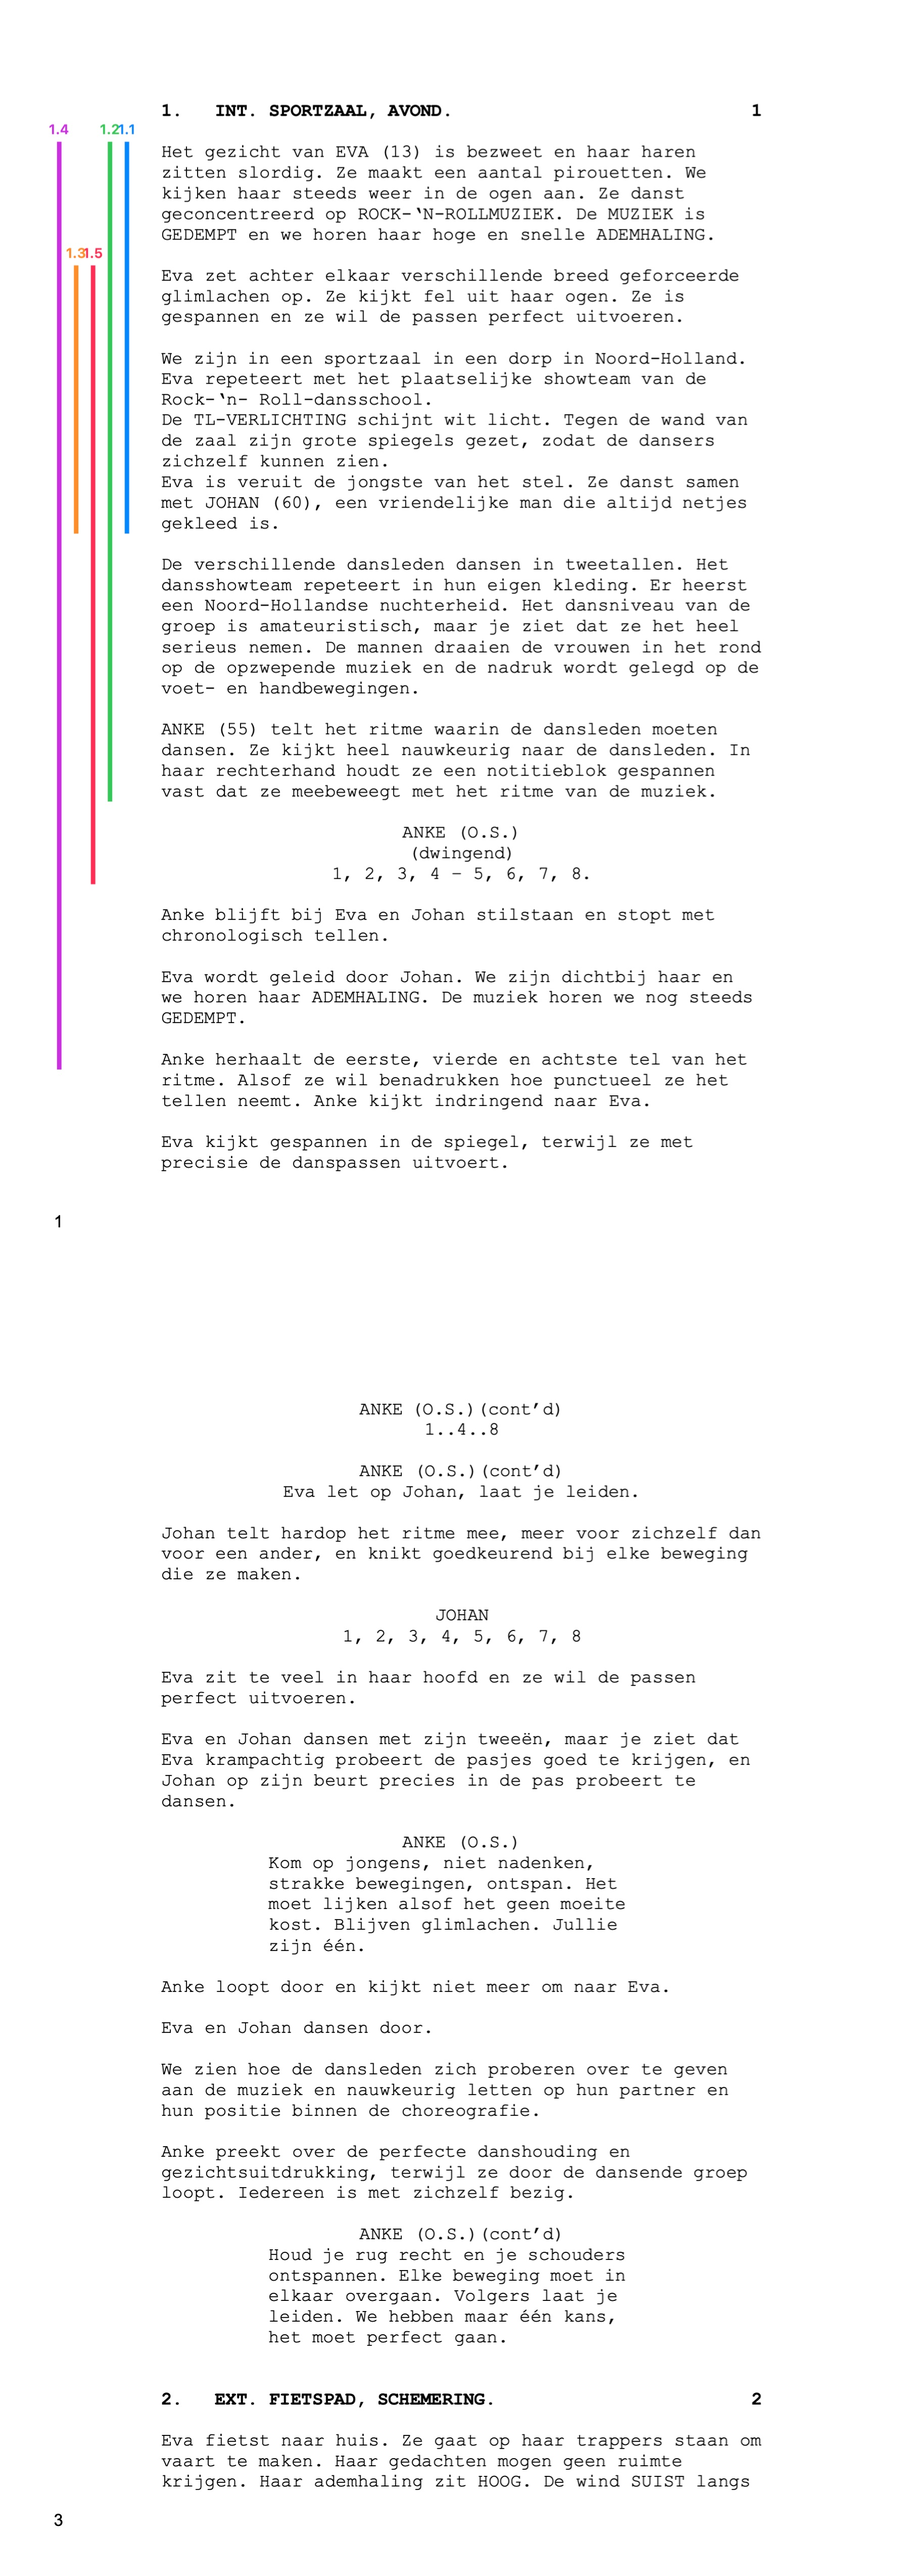
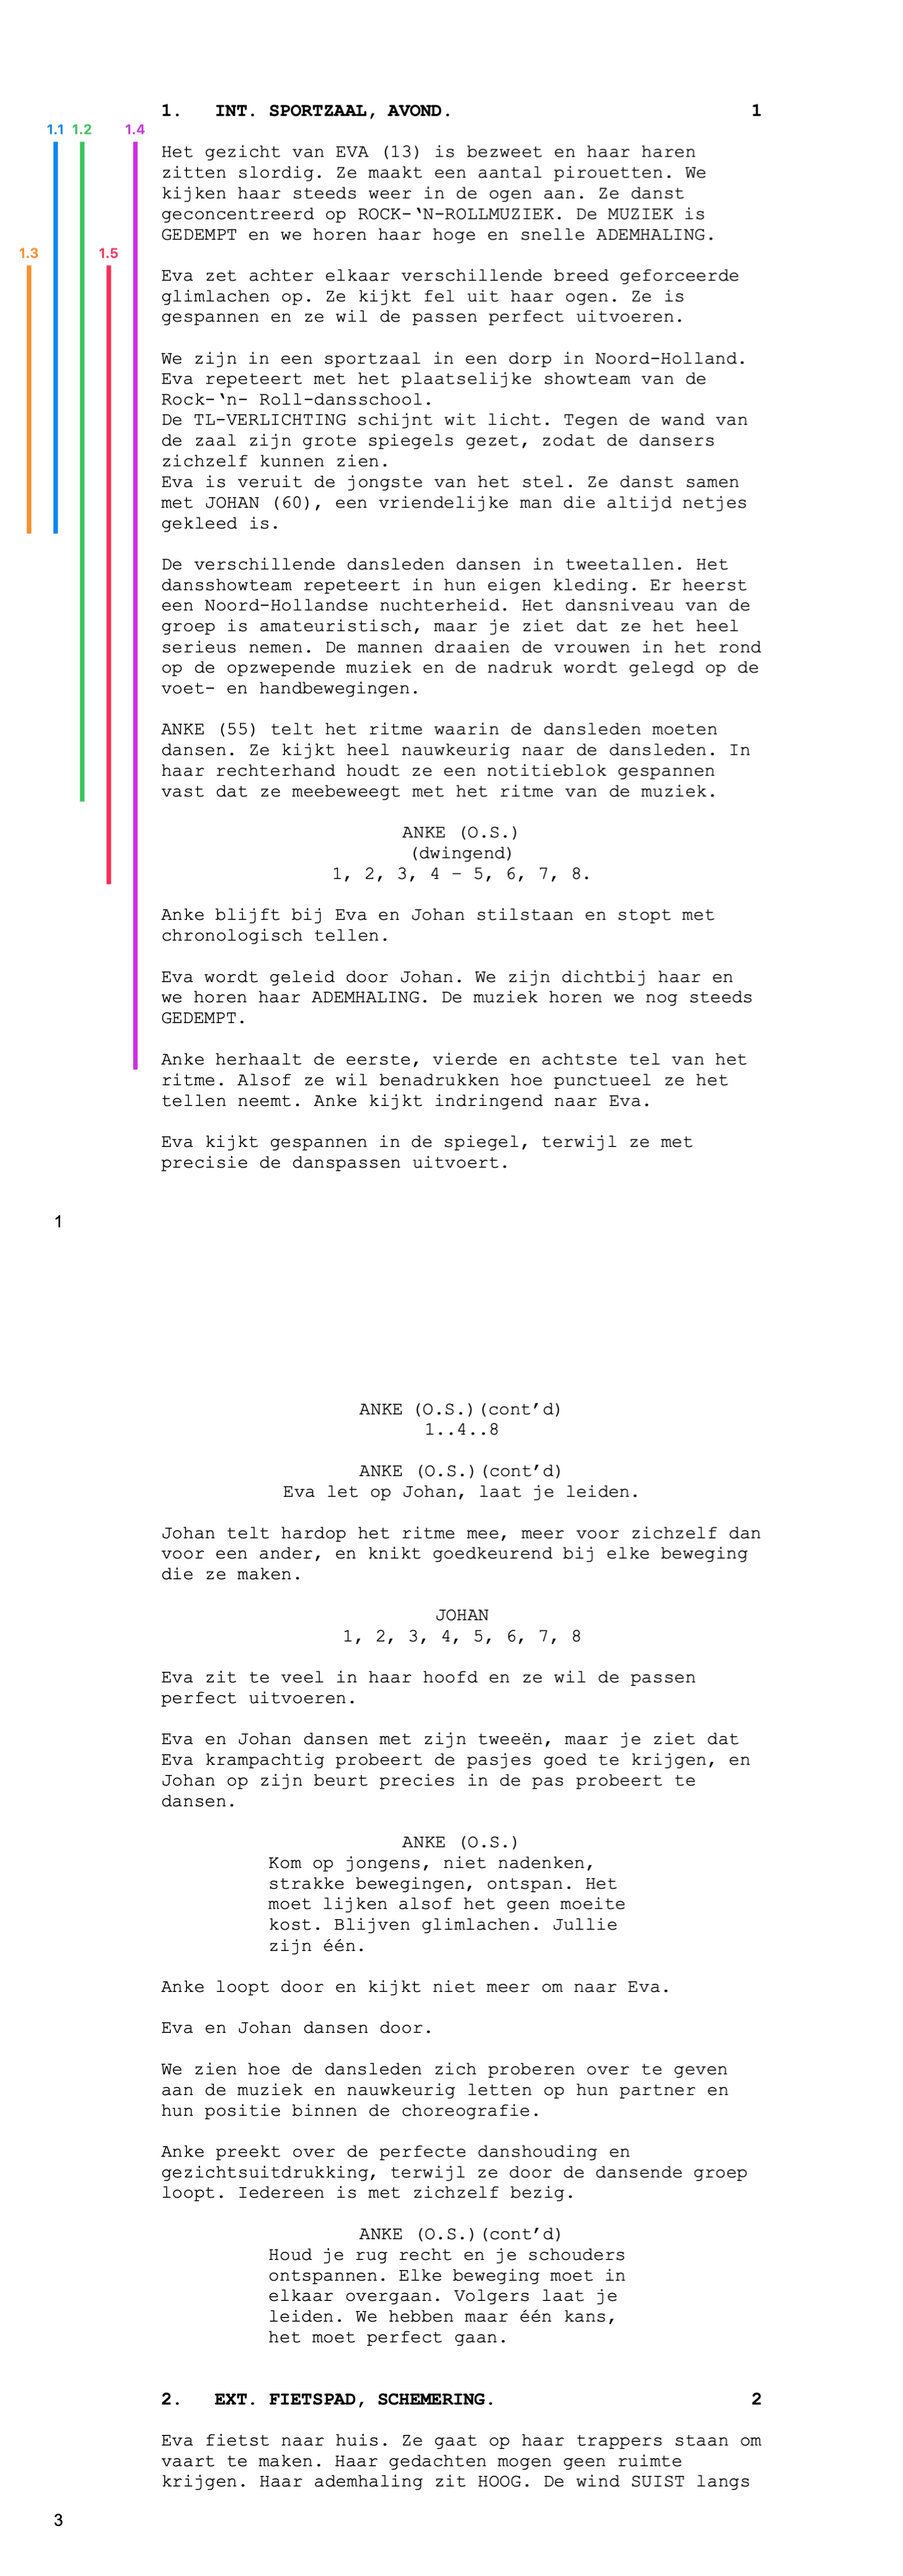
Publish shot list from CinePlanner

Changed region(s): [[0.0308, 0.0312, 0.1539, 0.4058]]

diff --git a/index.html b/index.html
@@ -2014,7 +2014,7 @@ eva. camera arri alexa 35 · 4.6k 16:9 framelines none lens canon fd">
 
 <button class="totop" id="totop" type="button" aria-label="Back to top" hidden>↑</button>
 
-<script>var CP_EPISODES = [[{"entries":[{"all":true,"s":0,"shots":["1.4","1.5","1.1","1.2","1.3"],"note":""},{"all":false,"s":7,"note":"","shots":["7.1"]},{"note":"","s":8,"all":true,"shots":["8.1"]}],"shots":7,"notes":"","goldenPM":"19:48–20:33","date":"Sunday, 30 August 2026","sunrise":"6:49","sunset":"20:33","setups":3,"n":1,"goldenAM":"6:49–7:34","iso":"2026-08-30"},{"date":"Thursday, 27 August 2026","setups":6,"shots":9,"entries":[{"s":2,"all":true,"note":"","shots":["3.1"]},{"all":true,"note":"","s":3,"shots":["4.3","4.2","4.1"]},{"s":4,"shots":["4A.1"],"all":true,"note":""},{"all":true,"s":9,"shots":["9.1"],"note":""},{"s":7,"all":false,"note":"","shots":["7.2"]},{"note":"","shots":["2.2","2.1"],"all":true,"s":1}],"goldenAM":"6:44–7:30","goldenPM":"19:54–20:40","iso":"2026-08-27","sunset":"20:40","n":2,"notes":"","sunrise":"6:44"},{"n":3,"date":"Friday, 28 August 2026","setups":3,"sunset":"20:38","goldenAM":"6:45–7:31","goldenPM":"19:52–20:38","iso":"2026-08-28","entries":[{"shots":["6.1","6.2"],"note":"","s":6,"all":true},{"note":"","s":5,"shots":["5.3","5.2","5.1","5.4"],"all":true},{"note":"","s":10,"shots":[],"all":true}],"notes":"","shots":6,"sunrise":"6:45"},{"setups":6,"notes":"","sunrise":"","goldenAM":"","date":"Saturday, 29 August 2026","iso":"2026-08-29","shots":0,"sunset":"","goldenPM":"","entries":[{"all":true,"shots":[],"note":"","s":13},{"note":"","shots":[],"s":11,"all":true},{"shots":[],"s":14,"note":"","all":true},{"all":true,"s":15,"note":"","shots":[]},{"note":"","all":true,"s":20,"shots":[]},{"s":12,"shots":[],"all":true,"note":""}],"n":4},{"sunset":"","setups":5,"n":5,"notes":"","iso":"2026-09-01","shots":0,"date":"Tuesday, 1 September 2026","sunrise":"","goldenPM":"","entries":[{"all":true,"shots":[],"note":"","s":16},{"s":17,"shots":[],"note":"","all":true},{"all":true,"shots":[],"note":"","s":18},{"s":19,"all":true,"shots":[],"note":""},{"note":"","s":21,"all":true,"shots":[]}],"goldenAM":""},{"n":6,"setups":4,"iso":"2026-08-25","sunrise":"6:40","date":"Tuesday, 25 August 2026","shots":0,"notes":"","sunset":"20:45","goldenAM":"6:40–7:27","entries":[{"note":"","all":true,"s":25,"shots":[]},{"s":24,"note":"","shots":[],"all":true},{"s":23,"shots":[],"note":"","all":true},{"note":"","s":22,"all":true,"shots":[]}],"goldenPM":"19:58–20:45"}]].map(function (s) { return { schedule: s }; });</script>
+<script>var CP_EPISODES = [[{"setups":3,"goldenAM":"6:49–7:34","date":"Sunday, 30 August 2026","entries":[{"all":true,"shots":["1.2","1.1","1.4","1.5","1.3"],"s":0,"note":""},{"s":7,"shots":["7.1"],"note":"","all":false},{"all":true,"shots":["8.1"],"s":8,"note":""}],"sunset":"20:33","n":1,"sunrise":"6:49","shots":7,"goldenPM":"19:48–20:33","notes":"","iso":"2026-08-30"},{"sunrise":"6:44","n":2,"sunset":"20:40","goldenAM":"6:44–7:30","date":"Thursday, 27 August 2026","iso":"2026-08-27","goldenPM":"19:54–20:40","notes":"","entries":[{"shots":["3.1"],"s":2,"all":true,"note":""},{"all":true,"shots":["4.3","4.2","4.1"],"note":"","s":3},{"shots":["4A.1"],"s":4,"all":true,"note":""},{"note":"","all":true,"shots":["9.1"],"s":9},{"shots":["7.2"],"all":false,"s":7,"note":""},{"s":1,"shots":["2.2","2.1"],"all":true,"note":""}],"setups":6,"shots":9},{"notes":"","setups":3,"shots":6,"sunrise":"6:45","goldenPM":"19:52–20:38","iso":"2026-08-28","date":"Friday, 28 August 2026","entries":[{"s":6,"shots":["6.1","6.2"],"note":"","all":true},{"shots":["5.4","5.2","5.1","5.3"],"s":5,"all":true,"note":""},{"s":10,"shots":[],"all":true,"note":""}],"sunset":"20:38","goldenAM":"6:45–7:31","n":3},{"notes":"","shots":0,"goldenAM":"","sunrise":"","date":"Saturday, 29 August 2026","sunset":"","iso":"2026-08-29","entries":[{"shots":[],"s":13,"note":"","all":true},{"s":11,"all":true,"note":"","shots":[]},{"shots":[],"note":"","s":14,"all":true},{"shots":[],"note":"","s":15,"all":true},{"s":20,"all":true,"note":"","shots":[]},{"all":true,"s":12,"shots":[],"note":""}],"goldenPM":"","n":4,"setups":6},{"shots":0,"n":5,"notes":"","date":"Tuesday, 1 September 2026","iso":"2026-09-01","setups":5,"sunset":"","goldenPM":"","entries":[{"all":true,"s":16,"shots":[],"note":""},{"note":"","s":17,"shots":[],"all":true},{"shots":[],"s":18,"all":true,"note":""},{"s":19,"shots":[],"all":true,"note":""},{"s":21,"note":"","shots":[],"all":true}],"goldenAM":"","sunrise":""},{"goldenPM":"19:58–20:45","entries":[{"s":25,"all":true,"note":"","shots":[]},{"shots":[],"s":24,"note":"","all":true},{"s":23,"note":"","shots":[],"all":true},{"shots":[],"s":22,"all":true,"note":""}],"setups":4,"date":"Tuesday, 25 August 2026","n":6,"shots":0,"notes":"","iso":"2026-08-25","sunrise":"6:40","sunset":"20:45","goldenAM":"6:40–7:27"}]].map(function (s) { return { schedule: s }; });</script>
 <script>
 (function () {
   function qsa(sel, ctx) { return Array.prototype.slice.call((ctx || document).querySelectorAll(sel)); }
